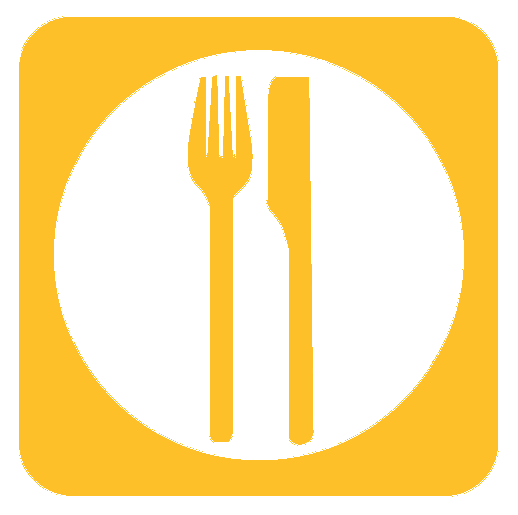
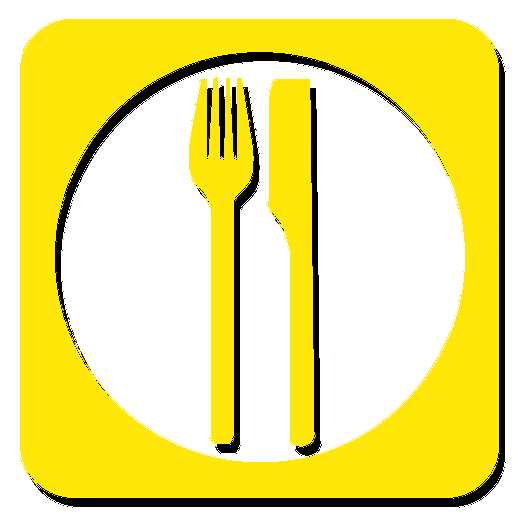
updated yellow to be more friendly on projector

diff --git a/public/css/module.css b/public/css/module.css
@@ -7,7 +7,7 @@
   line-height: 40px;
   display: inline-flex;
   list-style: none;
-  background-color: #fdc029;
+  background-color: #ffe809;
   margin: 10px auto 30px auto;
 }
 
@@ -52,11 +52,13 @@
 
 /*  link stuff  */
 a {
-  color: rgb(75, 180, 145)
+  color: rgb(75, 180, 145);
+  text-decoration: none;
 }
 
 a:hover {
   color: rgb(235, 79, 79);
+  text-decoration: underline;
 }
 
 /* Index page */
@@ -72,7 +74,7 @@ a:hover {
   display: flex;
   width: 70%;
   margin: 2em auto;
-  border: solid 1px #fdc029;
+  border: solid 1px #ffe809;
   border-radius: 5%;
   position: relative;
 }
@@ -108,17 +110,17 @@ a:hover {
 }
 
 ::-webkit-scrollbar-corner {
-    background: #fdc029;
+    background: #ffe809;
 }
 
 /* Handle */
 ::-webkit-scrollbar-thumb {
-  background: #fdc029;
+  background: #ffe809;
 }
 
 /* Handle on hover */
 ::-webkit-scrollbar-thumb:hover {
-  background: #fdc029;
+  background: #ffe809;
 }
 
 footer {
@@ -163,7 +165,7 @@ footer {
 
 .teamMember {
   width:fit-content ;   
-  color: #fdc129;
+  color: #ffe809;
   font-family: 'Permanent Marker', cursive;
   border-radius: 15px;
   padding-left: 20px;
@@ -175,7 +177,7 @@ footer {
 
 .paraCell{
 width: auto ;  
-border: dashed 2px #fdc129;
+border: dashed 2px #ffe809;
 border-radius: 15px;
 padding: 15px;
 font-family: 'Noto Sans TC', sans-serif;

diff --git a/public/css/base.css b/public/css/base.css
@@ -24,7 +24,7 @@ main {
   display: flexbox;
   width: 80%;
   background-color: #49494bbb;
-  border: solid 8px #fdc029;
+  border: solid 8px #ffe809;
   color: white;
   margin: auto;
   align-items: center;;
@@ -35,12 +35,13 @@ main {
 }
 
 h1 { 
-  color: #fdc029;
+  color: #ffe809;
   font-size: 4em;
   font-weight: bolder;
   padding: 10px;
   font-family: 'Permanent Marker', cursive;
   line-height: 50px;
+  text-shadow: black 2px 2px;
 }
 
 /*  font stuff */
